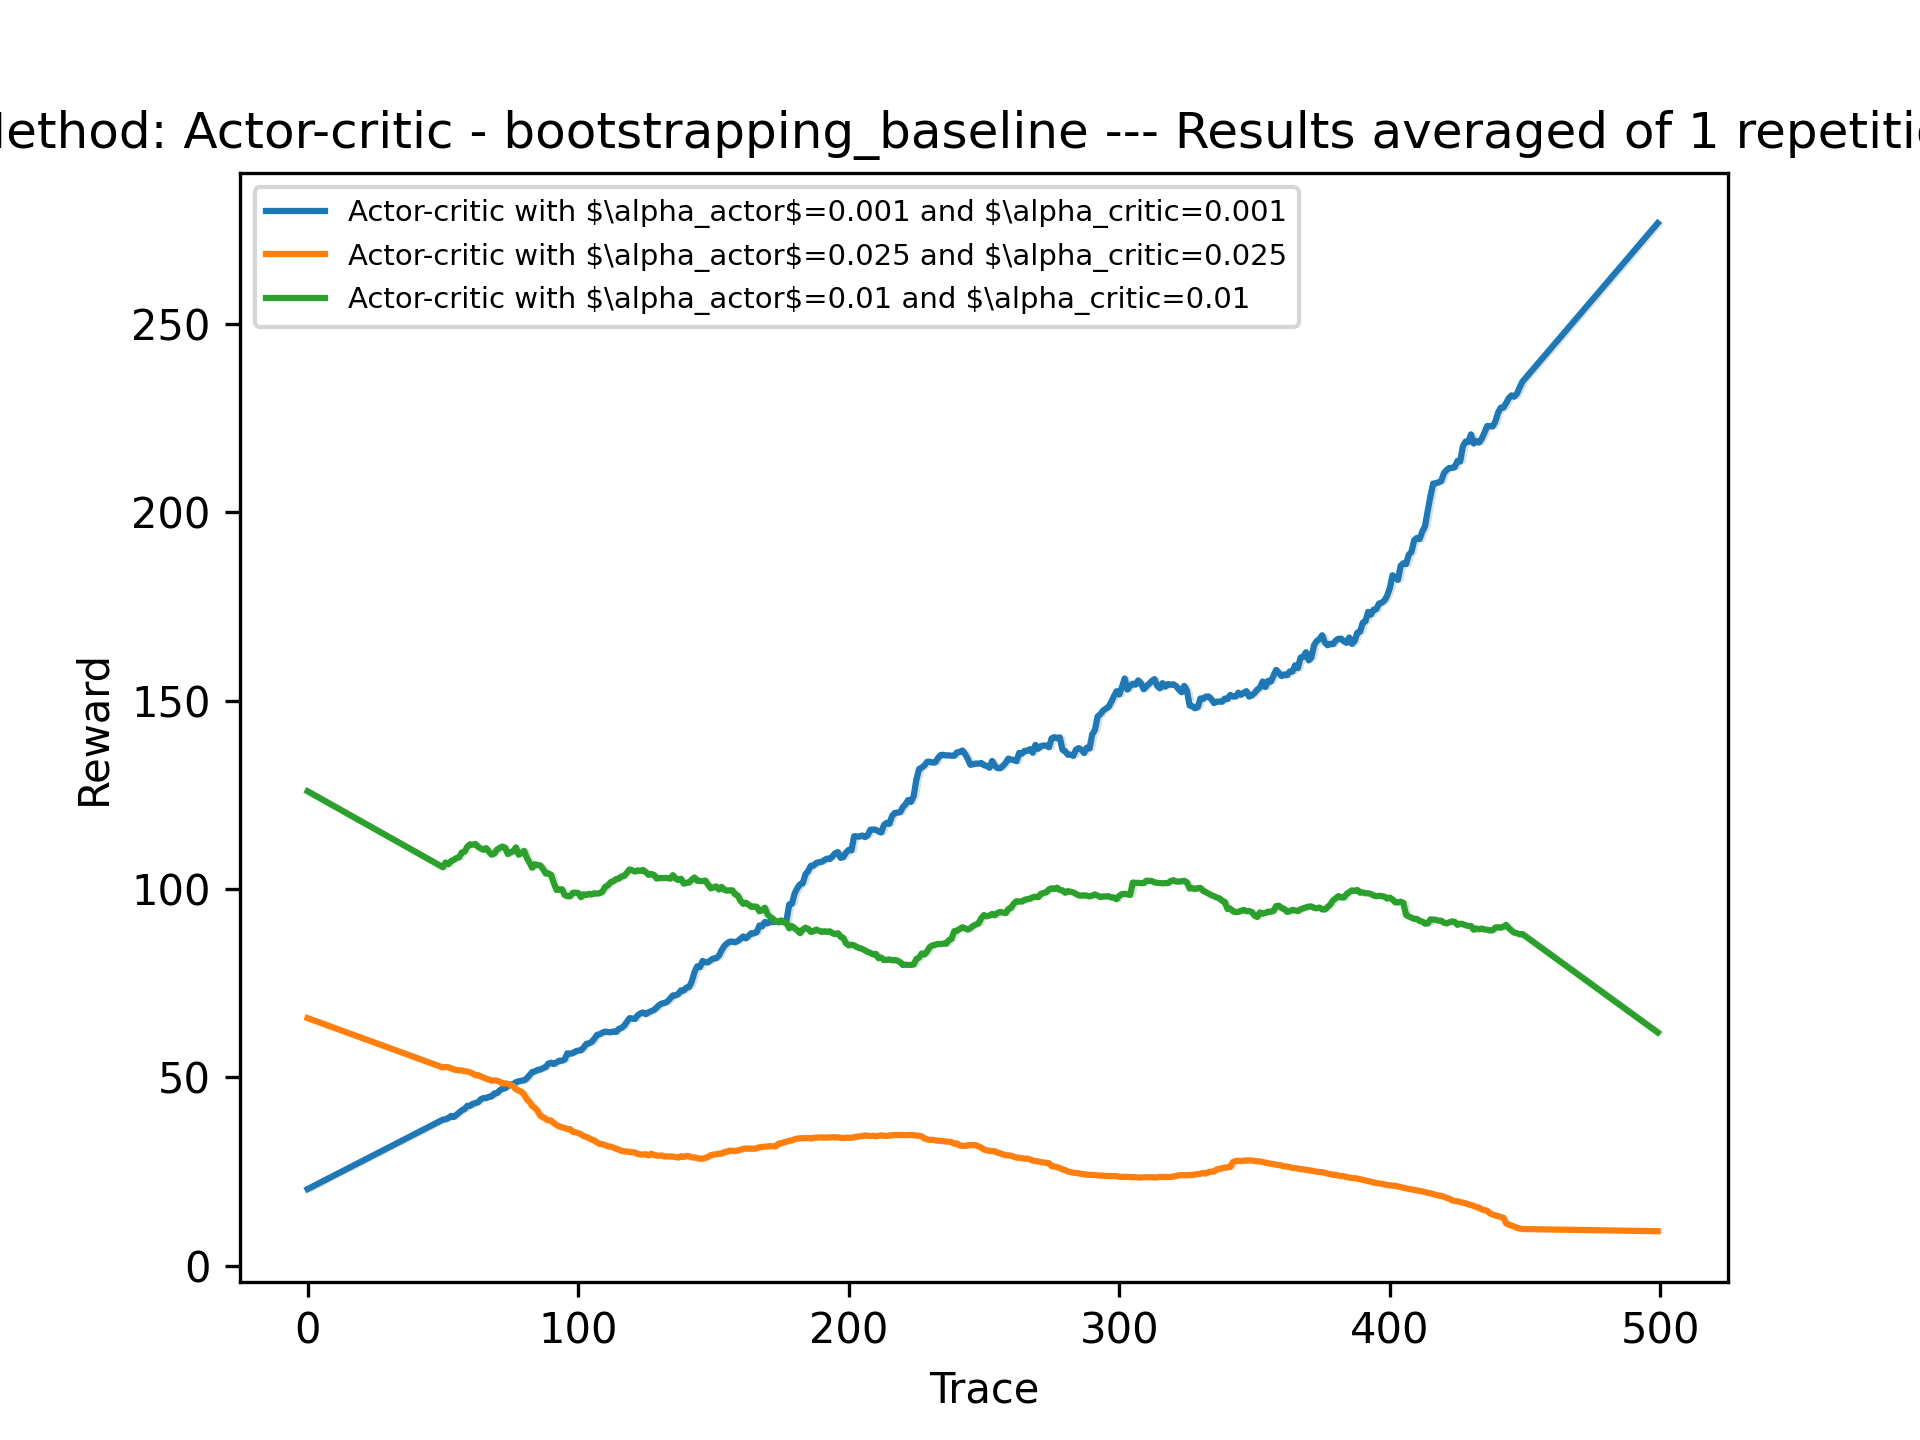
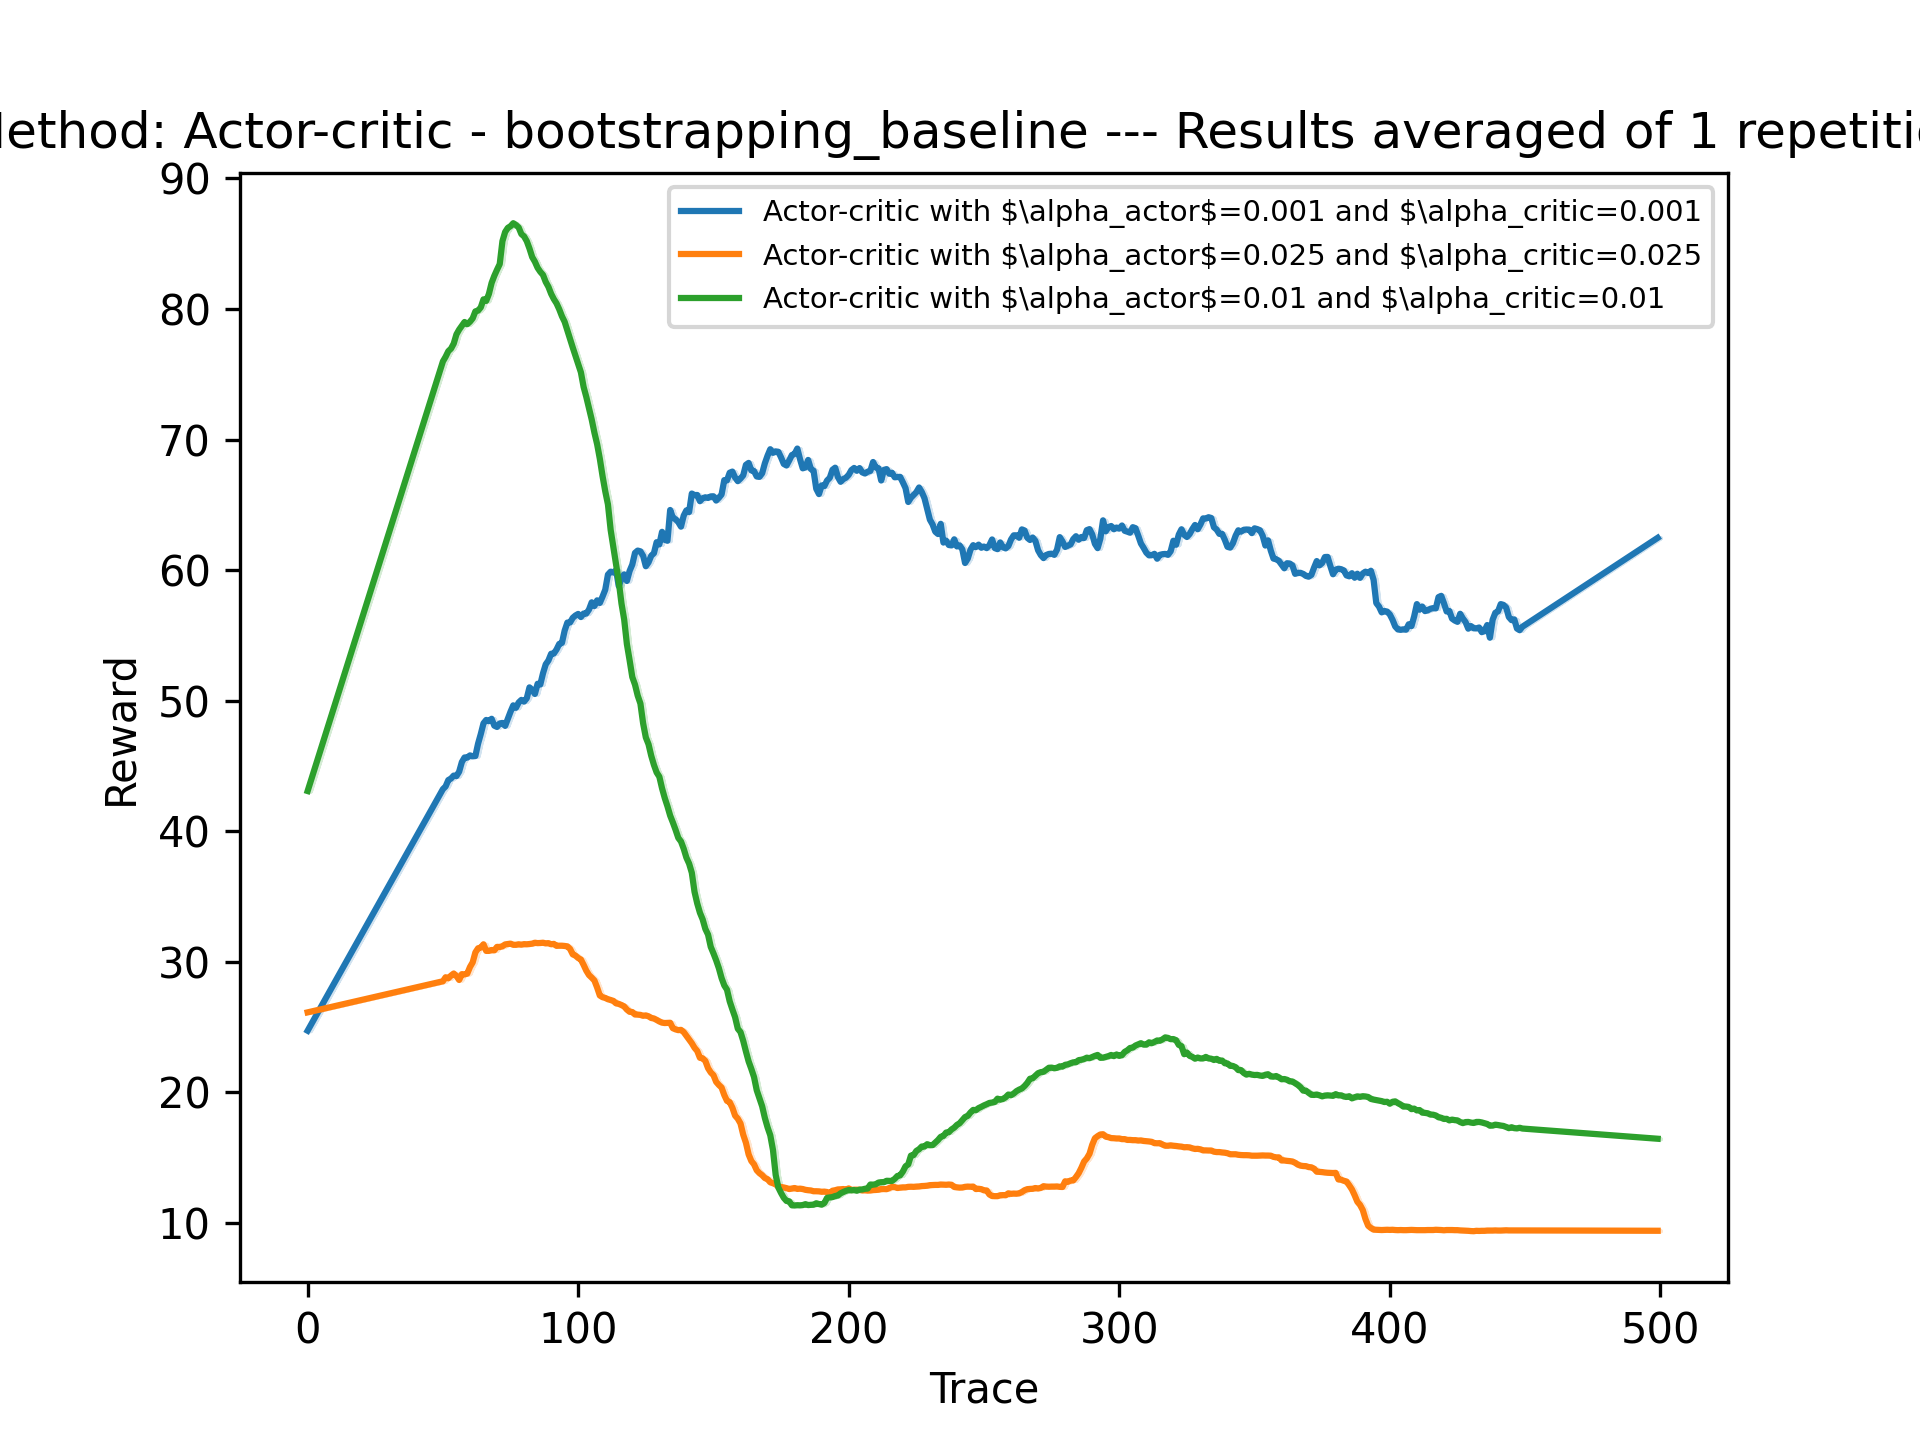
Reinforce NN experiment

diff --git a/experimenter.py b/experimenter.py
@@ -33,122 +33,153 @@ def average_over_repetitions(n_repetitions, n_traces, n_timesteps, param_dict, s
     return learning_curve, standard_error
 
 
-def experiment(method: str):
-    n_repetitions = 1
-    n_traces = 10
+def experiment(method: str, option: str = None, test: str = None):
+    n_repetitions = 1 # 20
+    n_traces = 200 # 2500
     n_timesteps = 500
     smoothing_window = 101
 
     if method == 'REINFORCE':
         ### Method: REINFORCE
-        gamma = 0.99
-        learning_rates = [0.001, 0.025, 0.01]
-        colours = ["#1f77b4", "#ff7f0e", "#2ca02c", "#d62728", "#9467bd", "#8c564b", "#e377c2", "#7f7f7f", "#bcbd22"]
+        if test == 'NN':
+            gamma = 0.99
+            alpha = 0.001
+            architecture = [64, 128, 256, [256, 128], [128, 64]]
+            colours = ["#1f77b4", "#ff7f0e", "#2ca02c", "#d62728", "#9467bd", "#8c564b", "#e377c2", "#7f7f7f", "#bcbd22"]
 
-        run = 0
-        Plot = LearningCurvePlot(title=f'Method: {method} --- Results averaged of {n_repetitions} repetitions')
-        for alpha in learning_rates:
+            run = 0
+            Plot = LearningCurvePlot(title=r'{} with $\alpha$={} and $\gamma$={} --- Averaged over {} repetitions'.format(method, alpha, gamma, n_repetitions))
+            for NN in architecture:
                 param_dict = {
-                    'alpha': alpha, # Learning-rate
-                    'gamma': gamma  # Discount factor
+                    'alpha': alpha,  # Learning-rate
+                    'gamma': gamma, # Discount factor
+                    'NN': NN
                 }
 
                 print(f'Running {method}-method with learning rate={alpha} and discount rate={gamma}')
 
-                learning_curve, standard_error = average_over_repetitions(n_repetitions, n_traces, n_timesteps, param_dict, smoothing_window, method)
-                Plot.add_curve(x=np.arange(1, len(learning_curve)+1),
-                            y=learning_curve,
-                            std=standard_error,
-                            col=colours[run],
-                            label=r'REINFORCE with $\alpha$={} and $\gamma$={}'.format(alpha, gamma))
+                learning_curve, standard_error = average_over_repetitions(n_repetitions, n_traces, n_timesteps,
+                                                                          param_dict, smoothing_window, method)
+                Plot.add_curve(x=np.arange(1, len(learning_curve) + 1),
+                               y=learning_curve,
+                               std=standard_error,
+                               col=colours[run],
+                               label=(f'REINFORCE with Neural Network Architecture = {NN}'))
                 run += 1
-        Plot.save('REINFORCE.png')
+            Plot.save('REINFORCE_NN.png')
+
+        elif test == 'alpha':
+            gamma = 0.99
+            learning_rates = [0.001, 0.025, 0.01]
+            NN = [128, 64]
+            colours = ["#1f77b4", "#ff7f0e", "#2ca02c", "#d62728", "#9467bd", "#8c564b", "#e377c2", "#7f7f7f", "#bcbd22"]
+
+            run = 0
+            Plot = LearningCurvePlot(title=f'{method} with NN {NN} --- Averaged over {n_repetitions} repetitions')
+            for alpha in learning_rates:
+                    param_dict = {
+                        'alpha': alpha, # Learning-rate
+                        'gamma': gamma,  # Discount factor
+                        'NN': NN
+                    }
+
+                    print(f'Running {method}-method with learning rate={alpha} and discount rate={gamma}')
+
+                    learning_curve, standard_error = average_over_repetitions(n_repetitions, n_traces, n_timesteps, param_dict, smoothing_window, method)
+                    Plot.add_curve(x=np.arange(1, len(learning_curve)+1),
+                                y=learning_curve,
+                                std=standard_error,
+                                col=colours[run],
+                                label=r'REINFORCE with $\alpha$={} and $\gamma$={}'.format(alpha, gamma))
+                    run += 1
+            Plot.save('REINFORCE_alpha.png')
 
     elif method == 'Actor-critic':
-        ### Method: Actor-critic with bootstrapping
-        n_traces = 1   # TODO: we use for this method epochs with each epoch having a 'small' number of traces
+        n_traces = 1  # TODO: we use for this method epochs with each epoch having a 'small' number of traces
         epochs = 500
-        learning_rates = [(0.001, 0.001), (0.025, 0.025), (0.01, 0.01)]
+        alpha_1 = [0.001, 0.025, 0.01]
+        alpha_2 = [0.001, 0.025, 0.01]
+        NN_actor = []
+        NN_critic = []
         n_depth = 10
-
-        option = 'bootstrapping'
         colours = ["#1f77b4", "#ff7f0e", "#2ca02c", "#d62728", "#9467bd", "#8c564b", "#e377c2", "#7f7f7f", "#bcbd22"]
 
-        run = 0
-        Plot = LearningCurvePlot(title=f'Method: {method} --- Results averaged of {n_repetitions} repetitions')
-        for alpha in learning_rates:
-                param_dict = {
-                    'epochs': epochs,
-                    'alpha_1': alpha[0],
-                    'alpha_2': alpha[1],
-                    'n_depth': n_depth,
-                    'option': option
-                }
+        if option == 'bootstrapping':
+            ### Method: Actor-critic with bootstrapping
+            run = 0
+            Plot = LearningCurvePlot(title=f'{method} --- Averaged over {n_repetitions} repetitions')
+            for a1 in alpha_1:
+                for a2 in alpha_2:
+                    param_dict = {
+                        'epochs': epochs,
+                        'alpha_1': a1,
+                        'alpha_2': a2,
+                        'n_depth': n_depth,
+                        'option': option,
+                    }
 
-                print(f'Running {method}-method with {option}: learning rate_actor ={alpha[0]} and  learning rate_critic ={alpha[1]}')
+                    print(f'Running {method}-method with {option}: learning rate_actor ={a1} and  learning rate_critic ={a2}')
 
-                learning_curve, standard_error = average_over_repetitions(n_repetitions, n_traces, n_timesteps, param_dict, smoothing_window, method)
-                Plot.add_curve(x=np.arange(1, len(learning_curve)+1),
-                            y=learning_curve,
-                            std=standard_error,
-                            col=colours[run],
-                            label=r'Actor-critic with $\alpha_actor$={} and $\alpha_critic={}'.format(alpha[0], alpha[1]))
-                run += 1
-        Plot.save('Actor_critic_bootstrapping.png')
+                    learning_curve, standard_error = average_over_repetitions(n_repetitions, n_traces, n_timesteps, param_dict, smoothing_window, method)
+                    Plot.add_curve(x=np.arange(1, len(learning_curve)+1),
+                                y=learning_curve,
+                                std=standard_error,
+                                col=colours[run],
+                                label=r'Actor-critic with $\alpha_actor$={} and $\alpha_critic={}'.format(a1, a2))
+                    run += 1
+            Plot.save('Actor_critic_bootstrapping.png')
 
 
-        option = 'baseline_subtraction'
-        ### Method: Actor-critic with baseline subtraction
-        colours = ["#1f77b4", "#ff7f0e", "#2ca02c", "#d62728", "#9467bd", "#8c564b", "#e377c2", "#7f7f7f", "#bcbd22"]
+        elif option == 'baseline_subtraction':
+            ### Method: Actor-critic with baseline subtraction
+            run = 0
+            Plot = LearningCurvePlot(title=f'{method} --- Averaged over {n_repetitions} repetitions')
+            for a1 in alpha_1:
+                for a2 in alpha_2:
+                    param_dict = {
+                        'epochs': epochs,
+                        'alpha_1': a1,
+                        'alpha_2': a2,
+                        'n_depth': n_depth,
+                        'option': option
+                    }
 
-        run = 0
-        Plot = LearningCurvePlot(title=f'Method: {method} --- Results averaged of {n_repetitions} repetitions')
-        for alpha in learning_rates:
-            param_dict = {
-                'epochs': epochs,
-                'alpha_1': alpha[0],
-                'alpha_2': alpha[1],
-                'n_depth': n_depth,
-                'option': option
-            }
+                    print(f'Running {method}-method with {option}: learning rate_actor ={a1} and  learning rate_critic ={a2}')
 
-            print(f'Running {method}-method with {option}: learning rate_actor ={alpha[0]} and  learning rate_critic ={alpha[1]}')
+                    learning_curve, standard_error = average_over_repetitions(n_repetitions, n_traces, n_timesteps, param_dict,
+                                                                            smoothing_window, method)
+                    Plot.add_curve(x=np.arange(1, len(learning_curve) + 1),
+                                y=learning_curve,
+                                std=standard_error,
+                                col=colours[run],
+                                label=r'Actor-critic with $\alpha_actor$={} and $\alpha_critic={}'.format(a1, a2))
+                    run += 1
+                Plot.save('Actor_critic_baseline_subtraction.png')
 
-            learning_curve, standard_error = average_over_repetitions(n_repetitions, n_traces, n_timesteps, param_dict,
-                                                                    smoothing_window, method)
-            Plot.add_curve(x=np.arange(1, len(learning_curve) + 1),
-                        y=learning_curve,
-                        std=standard_error,
-                        col=colours[run],
-                        label=r'Actor-critic with $\alpha_actor$={} and $\alpha_critic={}'.format(alpha[0], alpha[1]))
-            run += 1
-        Plot.save('Actor_critic_baseline_subtraction.png')
+        elif option == 'bootstrapping_baseline':
+            ### Method: Actor-critic with bootstrapping and baseline subtraction
+            run = 0
+            Plot = LearningCurvePlot(title=f'{method} - {option} --- Averaged over {n_repetitions} repetitions')
+            for a1 in alpha_1:
+                for a2 in alpha_2:
+                    param_dict = {
+                        'epochs': epochs,
+                        'alpha_1': a1,
+                        'alpha_2': a2,
+                        'n_depth': n_depth,
+                        'option': option
+                    }
 
-        option = 'bootstrapping_baseline'
-        ### Method: Actor-critic with bootstrapping and baseline subtraction
-        colours = ["#1f77b4", "#ff7f0e", "#2ca02c", "#d62728", "#9467bd", "#8c564b", "#e377c2", "#7f7f7f", "#bcbd22"]
+                    print(f'{method}-method with {option}: learning rate_actor ={a1} and  learning rate_critic ={a2}')
 
-        run = 0
-        Plot = LearningCurvePlot(title=f'Method: {method} - {option} --- Results averaged of {n_repetitions} repetitions')
-        for alpha in learning_rates:
-                param_dict = {
-                    'epochs': epochs,
-                    'alpha_1': alpha[0],
-                    'alpha_2': alpha[1],
-                    'n_depth': n_depth,
-                    'option': option
-                }
-
-                print(f'Running {method}-method with {option}: learning rate_actor ={alpha[0]} and  learning rate_critic ={alpha[1]}')
-
-                learning_curve, standard_error = average_over_repetitions(n_repetitions, n_traces, n_timesteps, param_dict, smoothing_window, method)
-                Plot.add_curve(x=np.arange(1, len(learning_curve)+1),
-                            y=learning_curve,
-                            std=standard_error,
-                            col=colours[run],
-                            label=r'Actor-critic with $\alpha_actor$={} and $\alpha_critic={}'.format(alpha[0], alpha[1]))
-                run += 1
-        Plot.save('Actor_critic_both.png')
+                    learning_curve, standard_error = average_over_repetitions(n_repetitions, n_traces, n_timesteps, param_dict, smoothing_window, method)
+                    Plot.add_curve(x=np.arange(1, len(learning_curve)+1),
+                                y=learning_curve,
+                                std=standard_error,
+                                col=colours[run],
+                                label=r'Actor-critic with $\alpha_actor$={} and $\alpha_critic={}'.format(a1, a2))
+                    run += 1
+            Plot.save('Actor_critic_both.png')
 
 if __name__ == '__main__':
-    experiment(method='Actor-critic')
+    experiment(method='REINFORCE', option = 'bootstrapping', test = 'alpha')

diff --git a/reinforce.py b/reinforce.py
@@ -11,6 +11,7 @@ class REINFORCE_Agent:
         self.n_actions = env.action_space.n
         self.learning_rate = param_dict['alpha']
         self.gamma = param_dict['gamma']
+        self.NN = param_dict['NN']
 
         self.memory = []  # used for memorizing traces
 
@@ -21,12 +22,21 @@ class REINFORCE_Agent:
         """ Initialize neural network. """
         print('Create a neural network with {} input nodes and {} output nodes'.format(self.n_states, self.n_actions))
 
-        ## TO DO: Have a look at optimizing these model specifications ##
-        model = torch.nn.Sequential(
-            torch.nn.Linear(self.n_states, 256),
-            torch.nn.ReLU(),
-            torch.nn.Linear(256, self.n_actions),
-            torch.nn.Softmax(dim=0))
+        # TODO: Have a look at optimizing these model specifications ##
+        if isinstance(self.NN, int):
+            model = torch.nn.Sequential(
+                torch.nn.Linear(self.n_states, self.NN),
+                torch.nn.ReLU(),
+                torch.nn.Linear(self.NN, self.n_actions),
+                torch.nn.Softmax(dim=0))
+
+        elif isinstance(self.NN, list):
+            model = torch.nn.Sequential(
+                torch.nn.Linear(self.n_states, self.NN[0]),
+                torch.nn.ReLU(),
+                torch.nn.Linear(self.NN[0], self.NN[1]),
+                torch.nn.Linear(self.NN[1], self.n_actions),
+                torch.nn.Softmax(dim=0))
         return model
 
     def memorize(self, s, a, r):

diff --git a/actor_critic.py b/actor_critic.py
@@ -30,7 +30,7 @@ class Actor_Critic_Agent:
         """ Initialize neural network. """
         print('Create a neural network with {} input nodes and {} output nodes'.format(self.n_states, self.n_actions))
 
-        ## TO DO: Have a look at optimizing these model specifications ##
+        # TODO: Have a look at optimizing these model specifications
         if type == 'actor':
             model = torch.nn.Sequential(
                 torch.nn.Linear(self.n_states, 256),
@@ -137,7 +137,6 @@ class Actor_Critic_Agent:
             loss_critic = torch.sum(pow(psi, 2))
 
         self.forget_psi_values()
-        
         return loss_actor, loss_critic
 
 
